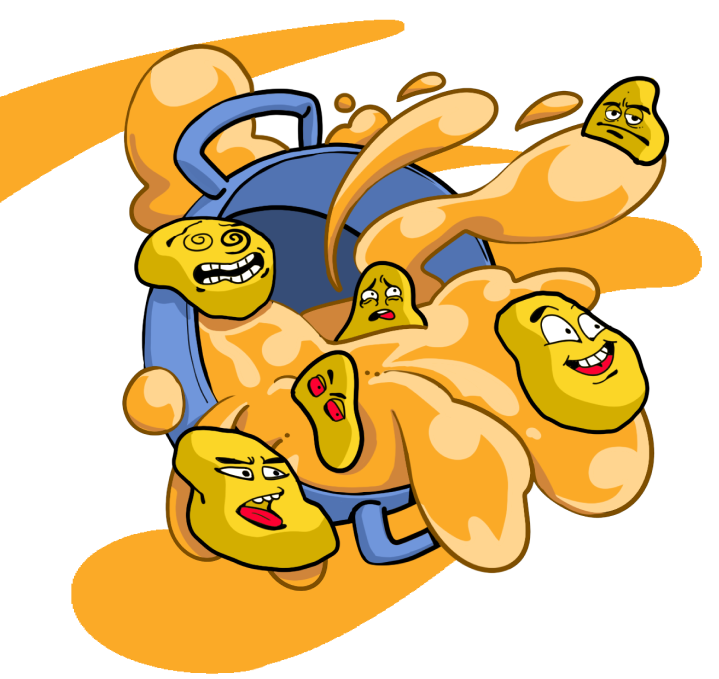
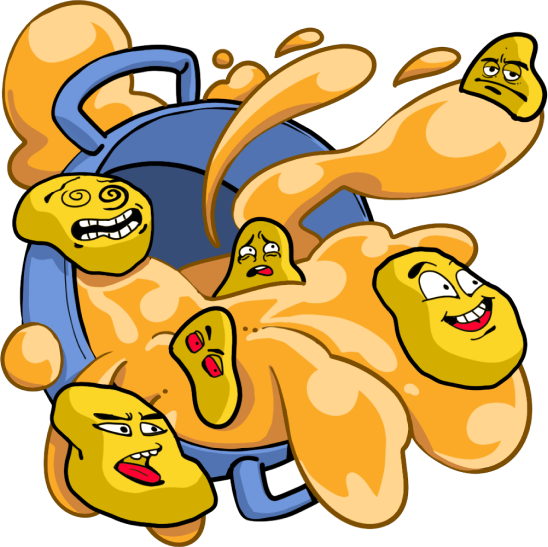
Escape image changed and centered

diff --git a/index.html b/index.html
@@ -63,7 +63,7 @@
     <section id="breaking" class="container mt-5 px-0">
       <div class="row align-items-center ">
         <div class="col-12 col-lg-6">
-          <img src="img/escape.png" alt="nuggets escaping" class="img-fluid" >
+          <img src="img/escape.png" alt="nuggets escaping" class="img-fluid d-block mx-auto" >
         </div>
         <div class="col-12 col-lg-5 px-lg-2 mx-auto">
           <h3 class="text-uppercase main-text h1 text-center text-lg-start mt-4 mt-lg-0">Breaking News!</h3>
